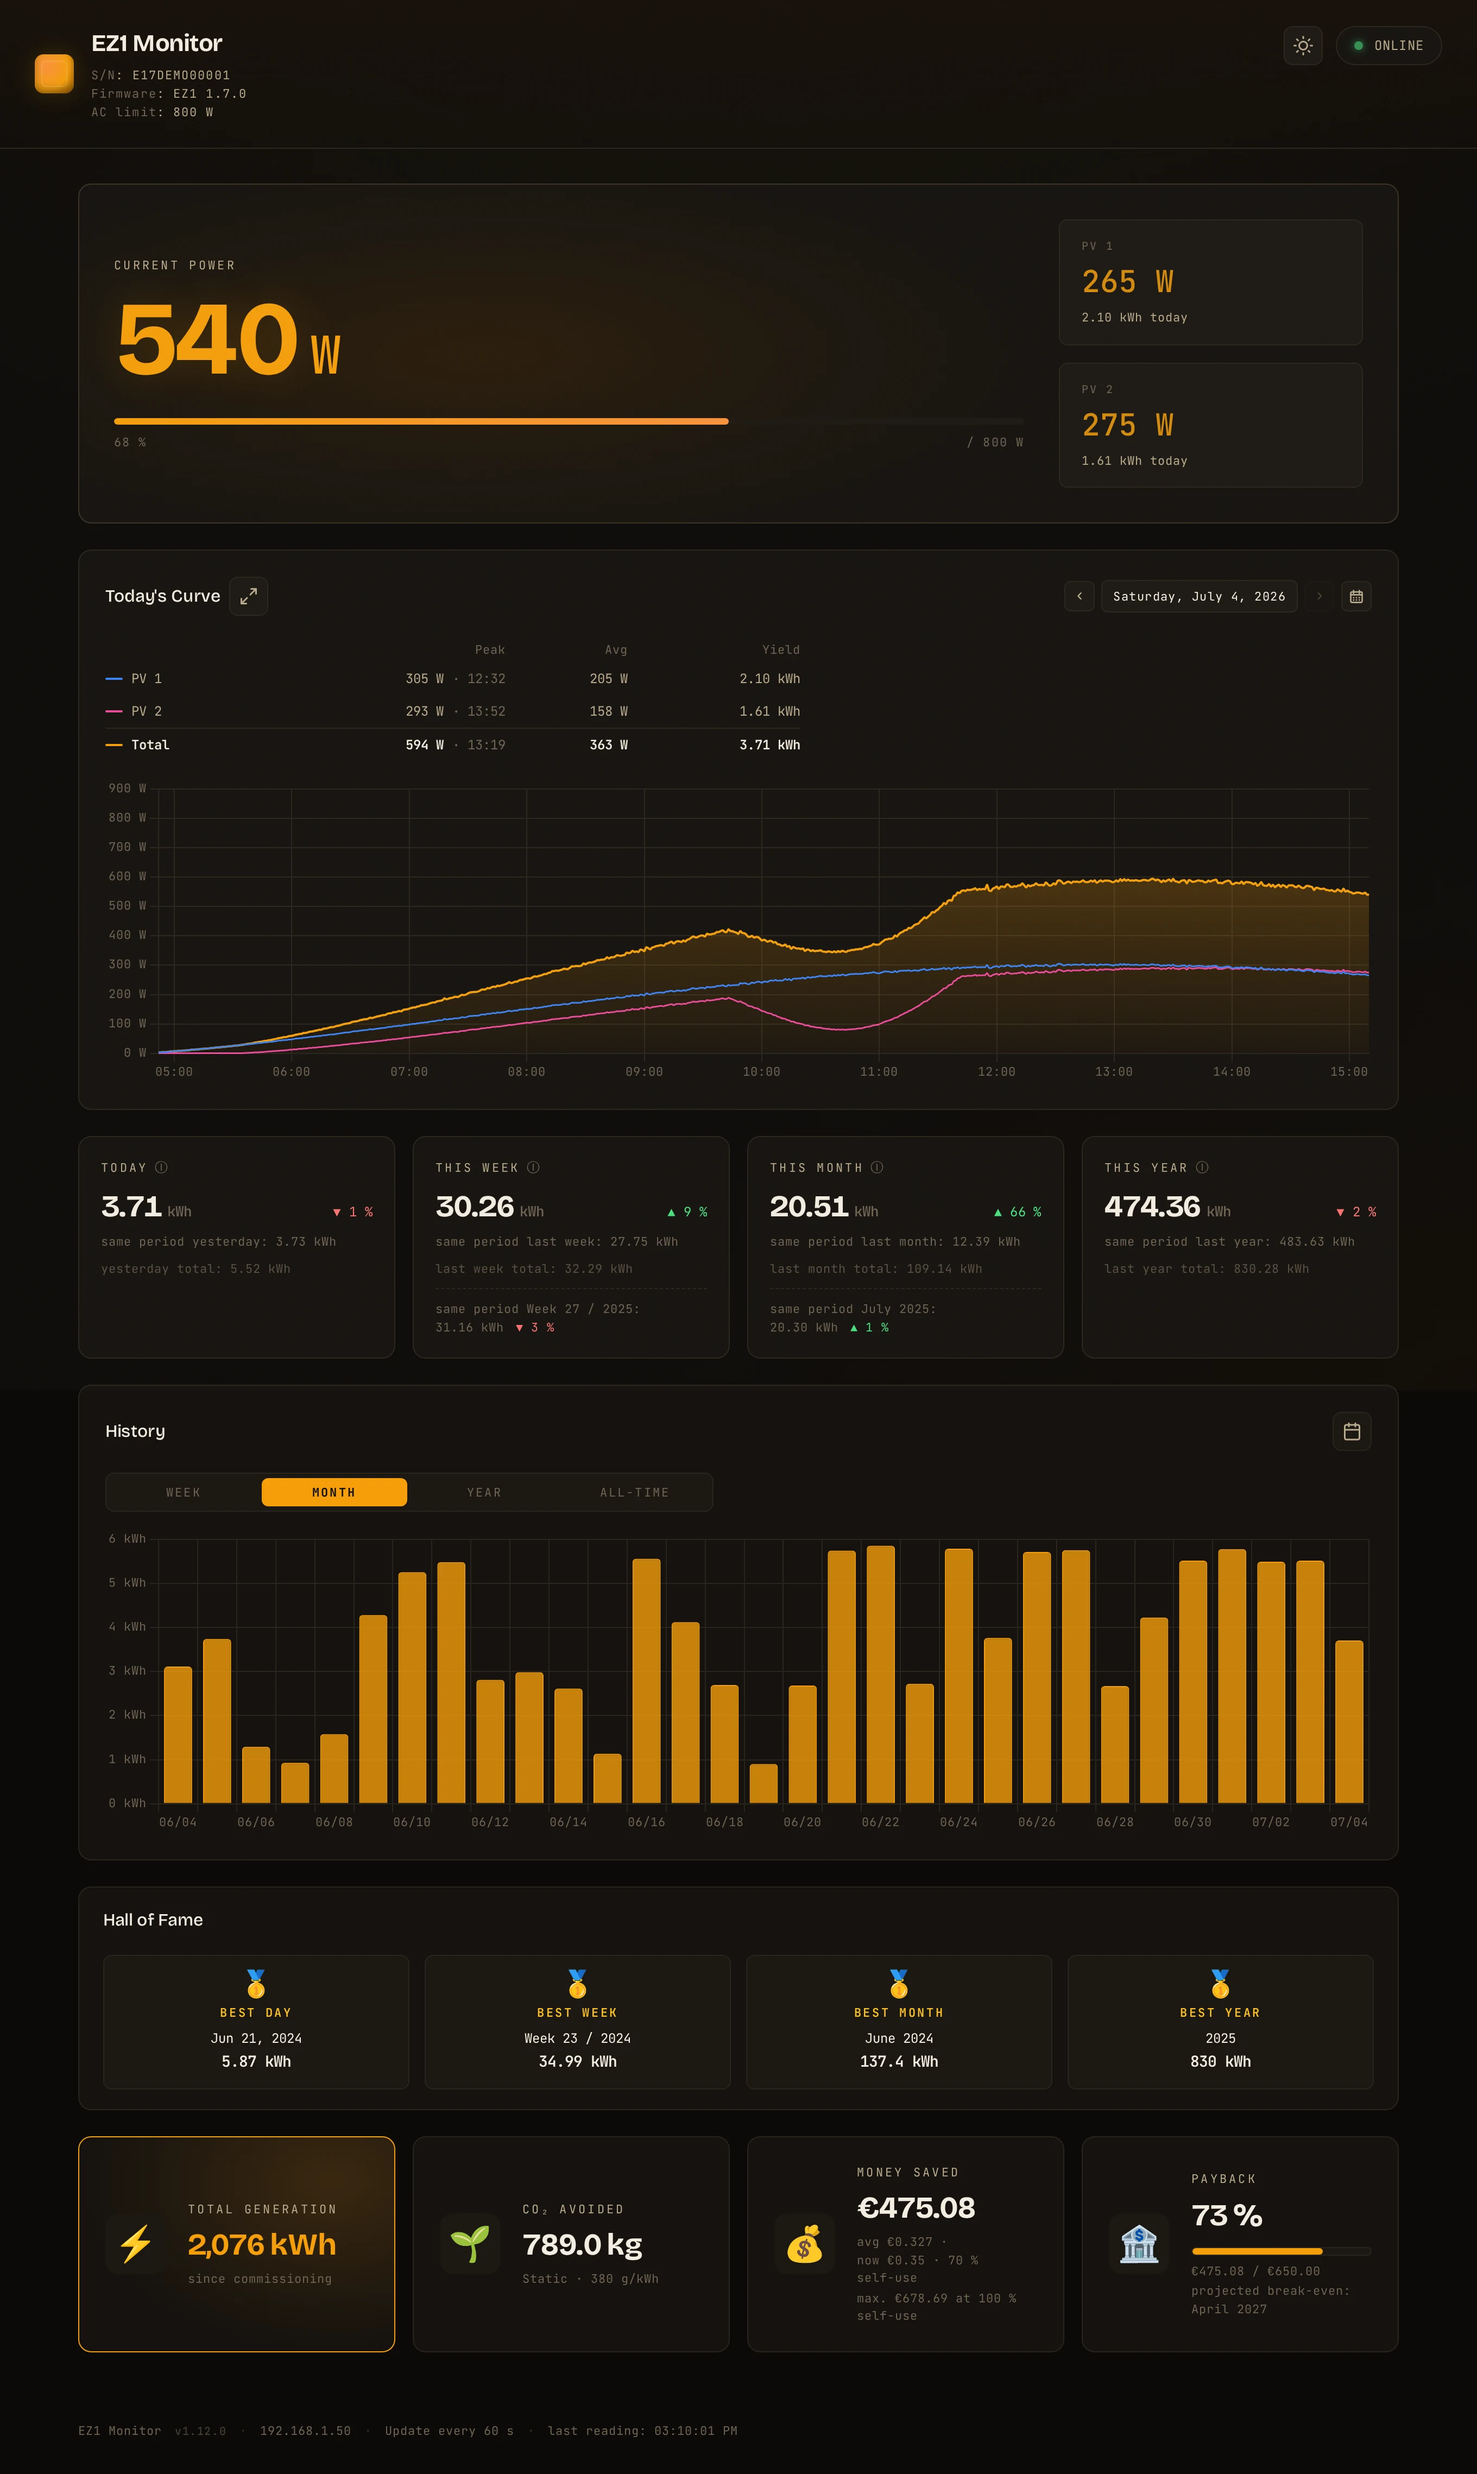
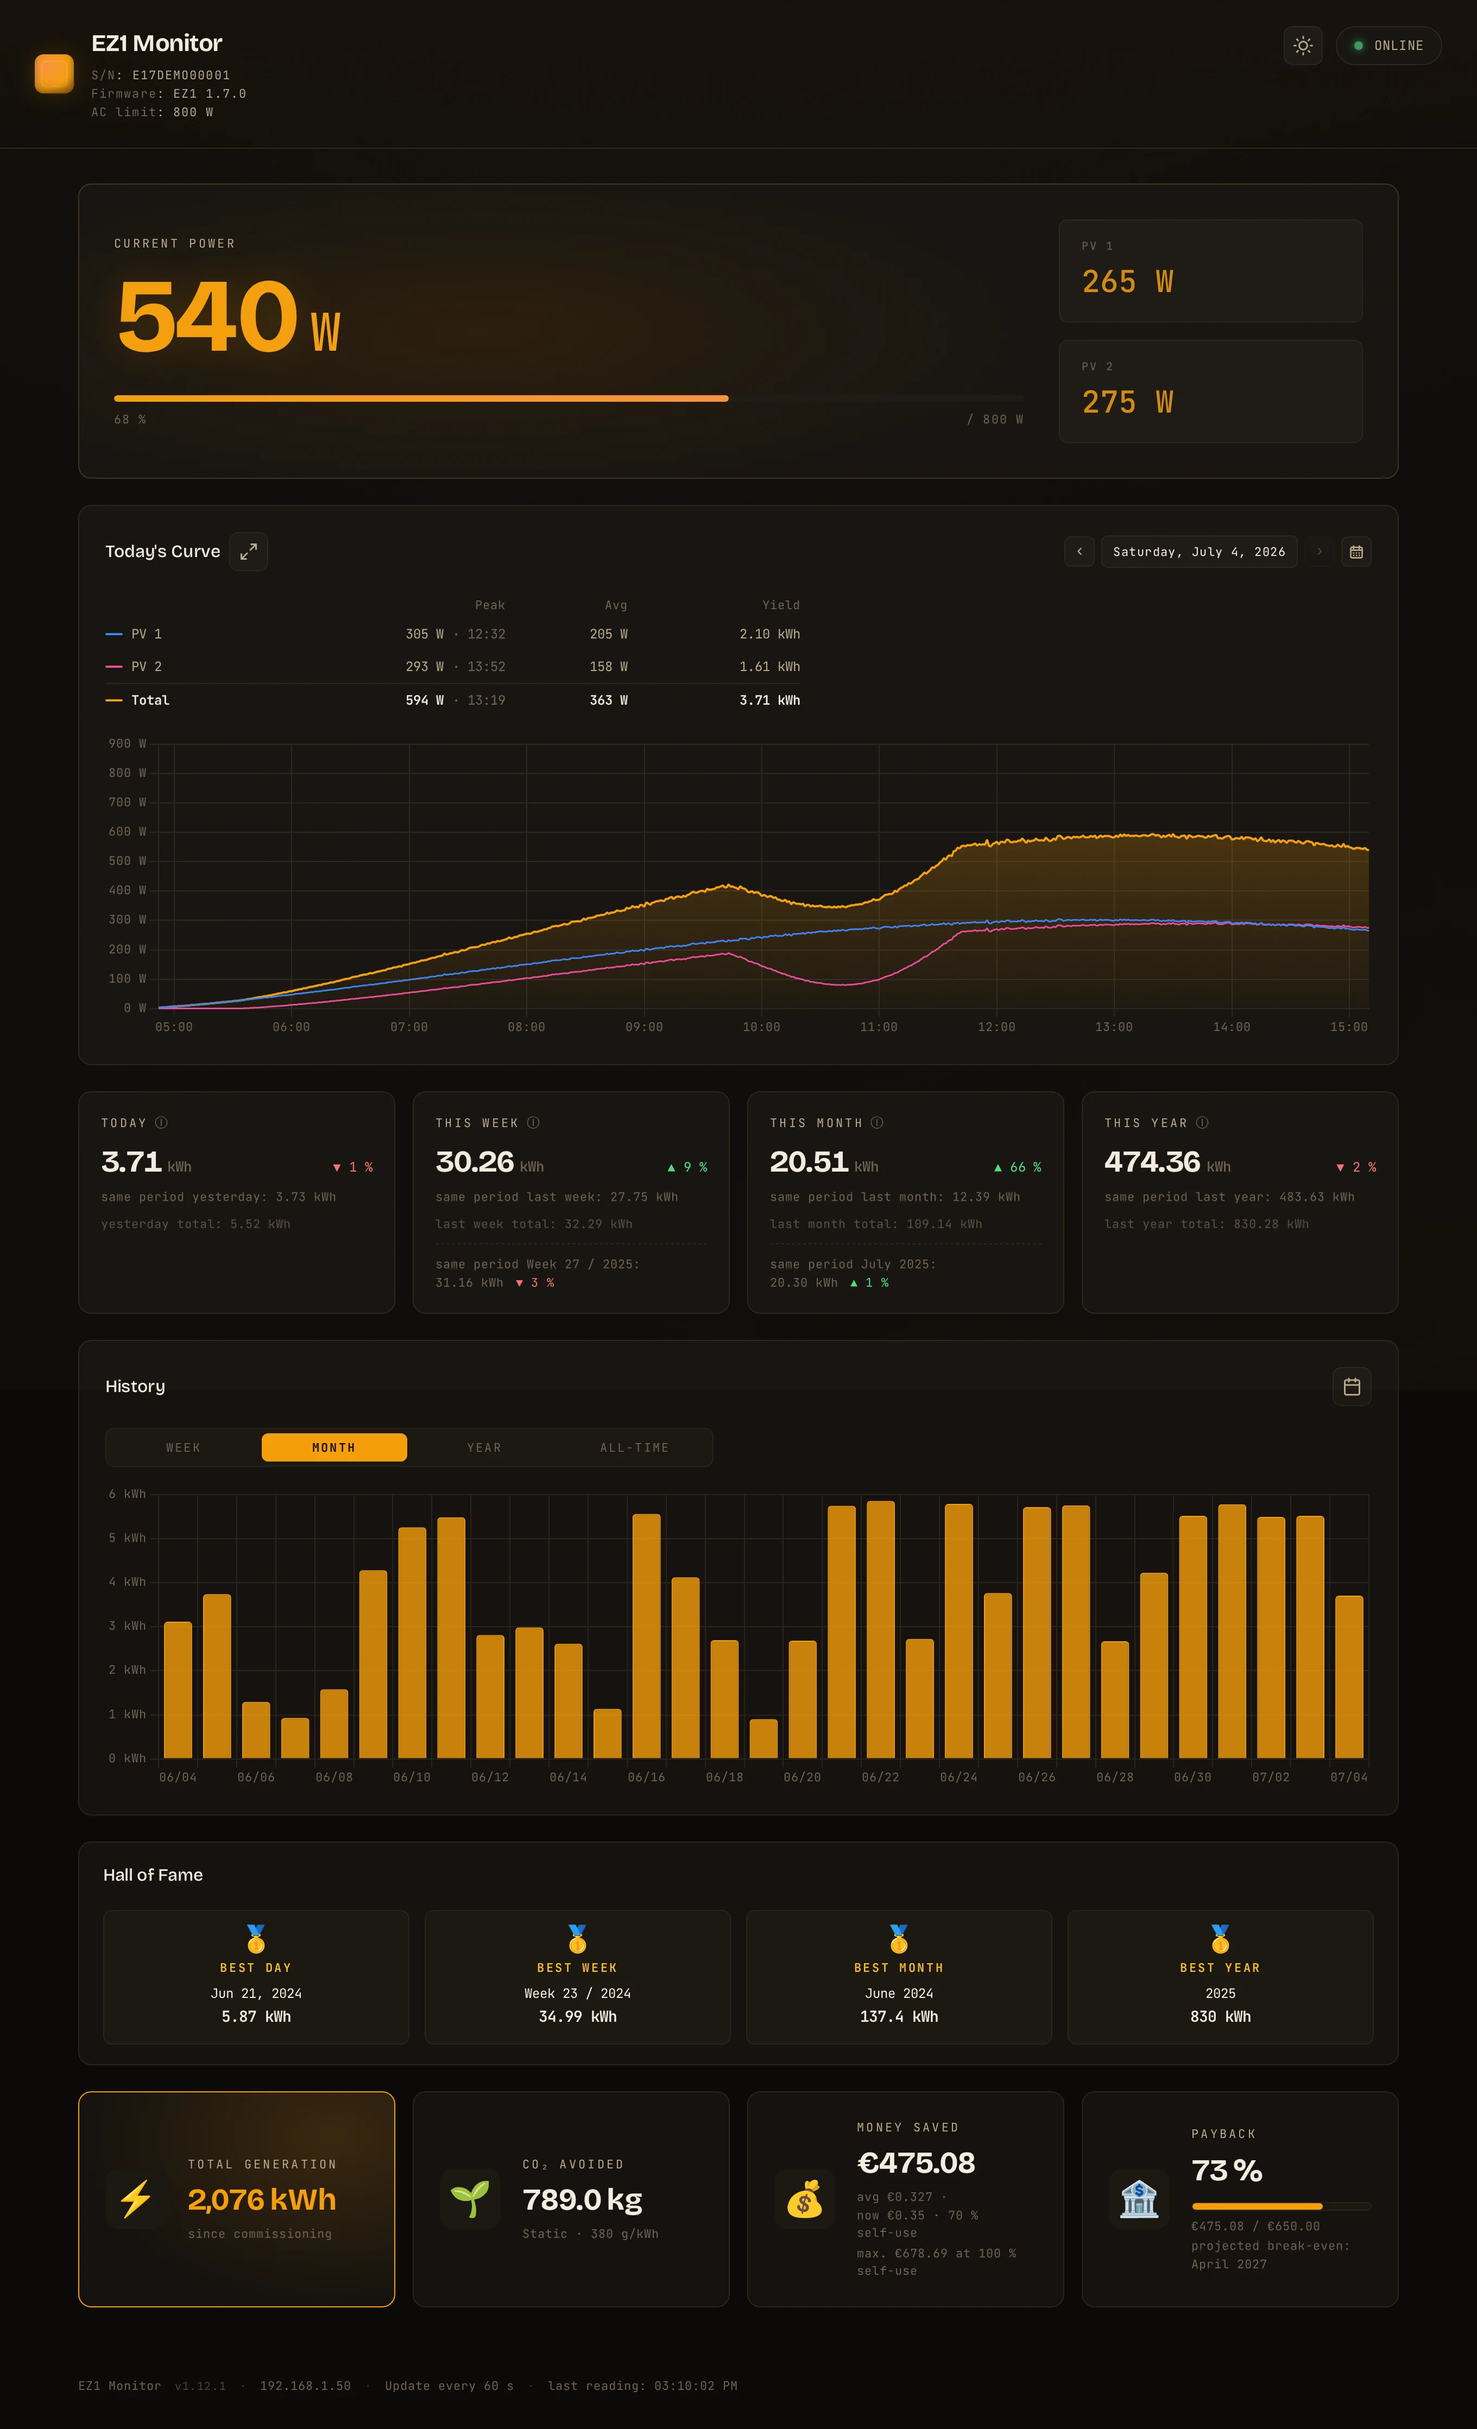
docs: v1.12.1 notes, new screenshots

diff --git a/tools/screenshots/shoot.py b/tools/screenshots/shoot.py
@@ -24,7 +24,7 @@ OUT = Path(sys.argv[2] if len(sys.argv) > 2 else "/out")
 # to the viewport, and a shot reaching past it would show its edge.
 DESKTOP = {"width": 1360, "height": 1280}
 # Phone width, but tall enough to show the hero card and today's full curve.
-PHONE = {"width": 390, "height": 1166}
+PHONE = {"width": 390, "height": 1145}
 
 
 def backend_now() -> datetime:

diff --git a/UPGRADING.md b/UPGRADING.md
@@ -30,6 +30,15 @@ are idempotent. Only these releases do anything noticeable on first start:
 
 The rest of this file is the release history, newest first.
 
+## From v1.12.0 to v1.12.1
+
+No manual steps, no database migration.
+
+- **The live power card sticks to live power.** The PV tiles no longer show
+  each panel's yield for the day, which duplicated the table right below them.
+  `pv1_kwh_today` and `pv2_kwh_today` in `/api/stats` and the Prometheus metrics
+  are unchanged.
+
 ## From v1.11.3 to v1.12.0
 
 No manual steps, no database migration.
